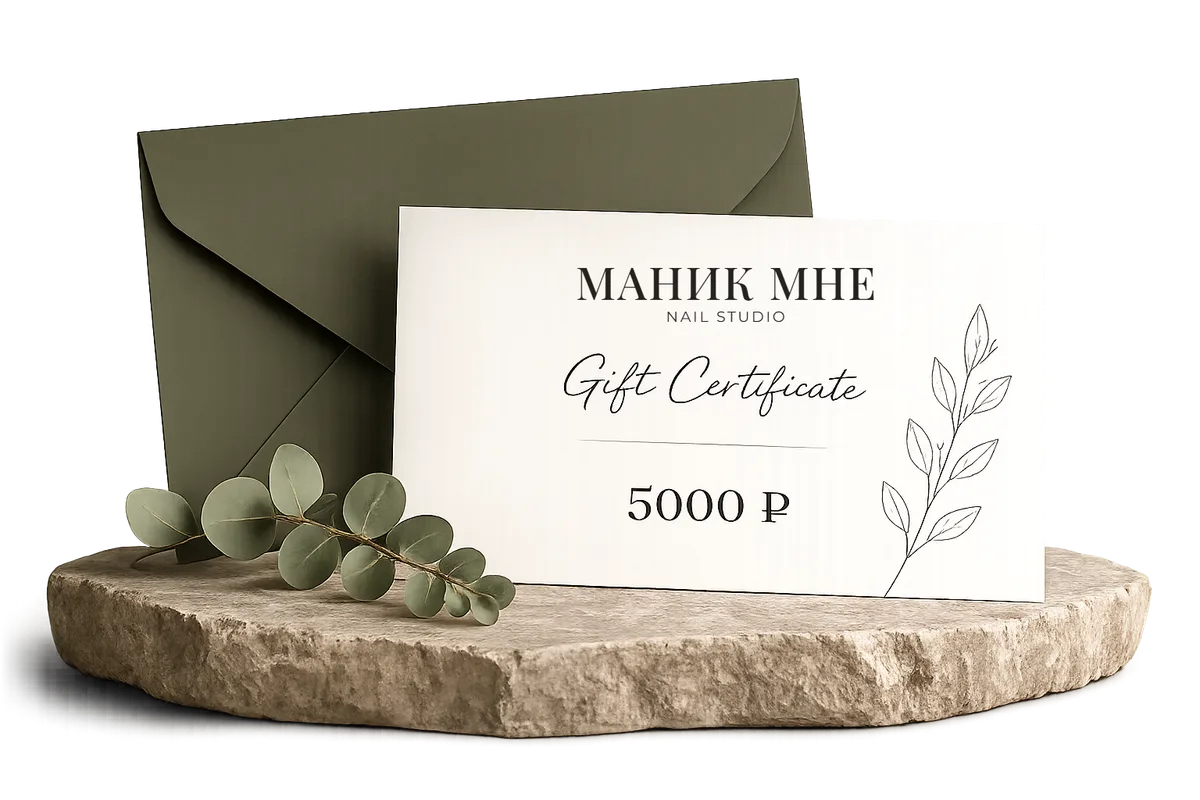
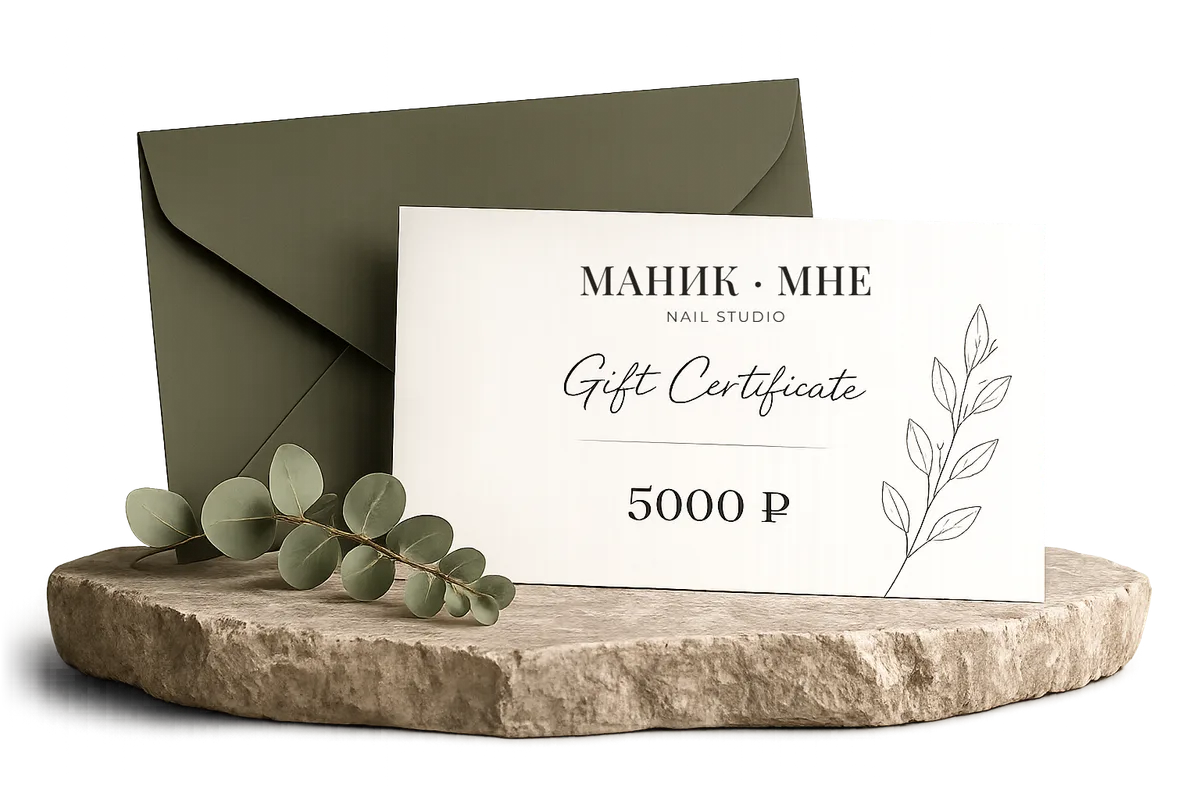
[agent] fix: обновить превью без подологии и с названием Маник · Мне

Changed region(s): [[0.4625, 0.3125, 0.74, 0.375]]

diff --git a/index.html b/index.html
@@ -8,19 +8,19 @@
   <meta name="darkreader-lock">
   <!-- ЧЕРНОВИК: убрать noindex только после замены данных первой студии (README, «Перед публикацией») -->
   <meta name="robots" content="noindex, nofollow">
-  <title>Маник Мне — студия эстетического маникюра и педикюра в Москве</title>
+  <title>Маник · Мне — студия эстетического маникюра и педикюра в Москве</title>
   <meta name="description" content="Эстетичный маникюр и педикюр в Москве, ул. Нижняя Масловка, 5к1. Новым клиентам скидка 20%. Онлайн-запись.">
   <link rel="icon" type="image/png" href="assets/img/favicon.png">
   <link rel="preconnect" href="https://fonts.googleapis.com">
   <link rel="preconnect" href="https://fonts.gstatic.com" crossorigin>
   <link rel="stylesheet" href="https://fonts.googleapis.com/css2?family=Montserrat:wght@400;500;600&family=Playfair+Display:wght@400;500;600&display=swap">
-  <link rel="stylesheet" href="css/style.css?v=163613">
+  <link rel="stylesheet" href="css/style.css?v=fe3592b">
   <noscript><style>.tabs{display:none}.price-panel[hidden]{display:block!important}.panel-title{display:block!important}</style></noscript>
 </head>
 <body>
   <header class="site-header" id="top">
     <div class="wrap header-inner">
-      <a class="logo" href="#top" aria-label="Маник Мне, на главную">
+      <a class="logo" href="#top" aria-label="Маник · Мне, на главную">
         <span class="logo-name">МАНИК<i>·</i>МНЕ</span>
         <span class="logo-sub">студия эстетического маникюра</span>
       </a>
@@ -43,7 +43,7 @@
       </picture>
       <div class="wrap">
         <div class="hero-text">
-          <p class="hero-brand" aria-hidden="true"><span>МАНИК</span><span>МНЕ</span></p>
+          <p class="hero-brand" aria-hidden="true"><span>МАНИК</span><span><i>·</i> МНЕ</span></p>
           <p class="eyebrow">Студия эстетического маникюра · Москва</p>
           <h1 id="hero-title">Маникюр и педикюр с аккуратной обработкой и правильной архитектурой ногтей</h1>
           <ul class="hero-points" aria-label="Коротко о студии">
@@ -68,7 +68,6 @@
 <article class="tile"><div class="tile-media"><img class="tile-img" src="assets/img/tile-manicure.webp" alt="" loading="lazy" decoding="async"><div class="tile-overlay"><h3 class="tile-title">Маникюр</h3><p class="tile-price">от 1 500 ₽</p></div></div><p class="tile-text">Гигиенический, с покрытием гель-лак и «Всё включено»: снятие, покрытие и укрепление гелем.</p><div class="tile-actions"><a class="btn btn-primary btn-sm" href="#price" data-open-tab="manicure">Посмотреть цены</a></div></article>
 <article class="tile"><div class="tile-media"><img class="tile-img" src="assets/img/tile-nails.webp" alt="" loading="lazy" decoding="async"><div class="tile-overlay"><h3 class="tile-title">Наращивание ногтей</h3><p class="tile-price">от 500 ₽</p></div></div><p class="tile-text">На гелевые типсы и на формы, коррекция. Можно нарастить один ноготь.</p><div class="tile-actions"><a class="btn btn-primary btn-sm" href="#price" data-open-tab="nails">Посмотреть цены</a></div></article>
 <article class="tile"><div class="tile-media"><img class="tile-img" src="assets/img/tile-pedicure.webp" alt="" loading="lazy" decoding="async"><div class="tile-overlay"><h3 class="tile-title">Педикюр</h3><p class="tile-price">от 1 000 ₽</p></div></div><p class="tile-text">Пальчики или полный педикюр, с покрытием гель-лак и без, форматы «Умный» и «Фруктовый».</p><div class="tile-actions"><a class="btn btn-primary btn-sm" href="#price" data-open-tab="pedicure">Посмотреть цены</a></div></article>
-<article class="tile"><div class="tile-media"><img class="tile-img" src="assets/img/tile-podology.webp" alt="" loading="lazy" decoding="async"><div class="tile-overlay"><h3 class="tile-title">Подология</h3><p class="tile-price">от 500 ₽</p></div></div><p class="tile-text">Трещины и мозоли, вросший ноготь, коррекционная система (титановая нить).</p><div class="tile-actions"><a class="btn btn-primary btn-sm" href="#price" data-open-tab="podology">Посмотреть цены</a></div></article>
 <article class="tile"><div class="tile-media"><img class="tile-img" src="assets/img/tile-lashes.webp" alt="" loading="lazy" decoding="async"><div class="tile-overlay"><h3 class="tile-title">Ресницы</h3><p class="tile-price">от 300 ₽</p></div></div><p class="tile-text">Классика, 1,5D, 2D, 3D и мокрый эффект, ламинирование и окрашивание, снятие.</p><div class="tile-actions"><a class="btn btn-primary btn-sm" href="#price" data-open-tab="lashes">Посмотреть цены</a></div></article>
 <article class="tile"><div class="tile-media"><img class="tile-img" src="assets/img/tile-brows.webp" alt="" loading="lazy" decoding="async"><div class="tile-overlay"><h3 class="tile-title">Оформление бровей</h3><p class="tile-price">от 700 ₽</p></div></div><p class="tile-text">Ламинирование, окрашивание, коррекция и архитектура бровей.</p><div class="tile-actions"><a class="btn btn-primary btn-sm" href="#price" data-open-tab="brows">Посмотреть цены</a></div></article>
 <!-- tiles:end -->
@@ -89,7 +88,7 @@
     <section class="section" id="reviews" data-block="reviews" hidden>
       <div class="wrap">
         <div class="section-head">
-          <h2>Клиенты о «Маник Мне»</h2>
+          <h2>Клиенты о «Маник · Мне»</h2>
         </div>
         <div data-rating></div>
         <div class="reviews" data-list></div>
@@ -107,7 +106,6 @@
 <button type="button" role="tab" class="tab" id="tab-manicure" aria-controls="panel-manicure" aria-selected="true" tabindex="0">Маникюр</button>
 <button type="button" role="tab" class="tab" id="tab-nails" aria-controls="panel-nails" aria-selected="false" tabindex="-1">Наращивание ногтей</button>
 <button type="button" role="tab" class="tab" id="tab-pedicure" aria-controls="panel-pedicure" aria-selected="false" tabindex="-1">Педикюр</button>
-<button type="button" role="tab" class="tab" id="tab-podology" aria-controls="panel-podology" aria-selected="false" tabindex="-1">Подология</button>
 <button type="button" role="tab" class="tab" id="tab-lashes" aria-controls="panel-lashes" aria-selected="false" tabindex="-1">Наращивание ресниц</button>
 <button type="button" role="tab" class="tab" id="tab-brows" aria-controls="panel-brows" aria-selected="false" tabindex="-1">Уход за бровями</button>
 <button type="button" role="tab" class="tab" id="tab-men" aria-controls="panel-men" aria-selected="false" tabindex="-1">Для мужчин</button>
@@ -120,7 +118,6 @@
 <div role="tabpanel" class="price-panel" id="panel-manicure" aria-labelledby="tab-manicure"><h3 class="panel-title">Маникюр</h3><table class="price-table"><thead><tr><th scope="col">Процедура</th><th scope="col" class="num">Мастер</th><th scope="col" class="act"><span class="sr-only">Запись</span></th></tr></thead><tbody><tr><th scope="row"><span class="p-name">Маникюр без снятия, укрепление гелем или покрытие гель-лак</span></th><td class="num" data-label="Мастер">2 900 ₽</td><td class="act"><a class="btn btn-outline btn-sm" href="https://n2624694.yclients.ru" target="_blank" rel="noopener" data-book data-book-label="Маникюр без снятия, укрепление гелем или покрытие гель-лак">Узнать свободное время</a></td></tr><tr><th scope="row"><span class="p-name">Маникюр &quot;Всё включено&quot; длина 1</span><span class="p-note">Включает: снятие, покрытие гель-лак, укрепление гелем.</span></th><td class="num" data-label="Мастер">3 000 ₽</td><td class="act"><a class="btn btn-outline btn-sm" href="https://n2624694.yclients.ru" target="_blank" rel="noopener" data-book data-book-label="Маникюр &quot;Всё включено&quot; длина 1">Узнать свободное время</a></td></tr><tr><th scope="row"><span class="p-name">Маникюр &quot;Всё включено&quot; длина 2-4</span><span class="p-note">Включает: снятие, покрытие гель-лак, укрепление гелем.</span></th><td class="num" data-label="Мастер">3 500 ₽</td><td class="act"><a class="btn btn-outline btn-sm" href="https://n2624694.yclients.ru" target="_blank" rel="noopener" data-book data-book-label="Маникюр &quot;Всё включено&quot; длина 2-4">Узнать свободное время</a></td></tr><tr><th scope="row"><span class="p-name">Маникюр гигиенический</span><span class="p-note">Без снятия, без покрытия</span></th><td class="num" data-label="Мастер">1 500 ₽</td><td class="act"><a class="btn btn-outline btn-sm" href="https://n2624694.yclients.ru" target="_blank" rel="noopener" data-book data-book-label="Маникюр гигиенический">Узнать свободное время</a></td></tr><tr><th scope="row"><span class="p-name">Бондирование</span></th><td class="num" data-label="Мастер">2 500 ₽</td><td class="act"><a class="btn btn-outline btn-sm" href="https://n2624694.yclients.ru" target="_blank" rel="noopener" data-book data-book-label="Бондирование">Узнать свободное время</a></td></tr></tbody></table></div>
 <div role="tabpanel" class="price-panel" id="panel-nails" aria-labelledby="tab-nails" hidden><h3 class="panel-title">Наращивание ногтей</h3><table class="price-table"><thead><tr><th scope="col">Процедура</th><th scope="col" class="num">Мастер</th><th scope="col" class="act"><span class="sr-only">Запись</span></th></tr></thead><tbody><tr><th scope="row"><span class="p-name">Наращивание длина 1-2 на гелевые типсы</span></th><td class="num" data-label="Мастер">3 500 ₽</td><td class="act"><a class="btn btn-outline btn-sm" href="https://n2624694.yclients.ru" target="_blank" rel="noopener" data-book data-book-label="Наращивание длина 1-2 на гелевые типсы">Узнать свободное время</a></td></tr><tr><th scope="row"><span class="p-name">Наращивание длина 3-5 на гелевые типсы</span></th><td class="num" data-label="Мастер">4 000 ₽</td><td class="act"><a class="btn btn-outline btn-sm" href="https://n2624694.yclients.ru" target="_blank" rel="noopener" data-book data-book-label="Наращивание длина 3-5 на гелевые типсы">Узнать свободное время</a></td></tr><tr><th scope="row"><span class="p-name">Наращивание на верхние формы</span></th><td class="num" data-label="Мастер">4 500 ₽</td><td class="act"><a class="btn btn-outline btn-sm" href="https://n2624694.yclients.ru" target="_blank" rel="noopener" data-book data-book-label="Наращивание на верхние формы">Узнать свободное время</a></td></tr><tr><th scope="row"><span class="p-name">Наращивание на нижние формы</span></th><td class="num" data-label="Мастер">4 500 ₽</td><td class="act"><a class="btn btn-outline btn-sm" href="https://n2624694.yclients.ru" target="_blank" rel="noopener" data-book data-book-label="Наращивание на нижние формы">Узнать свободное время</a></td></tr><tr><th scope="row"><span class="p-name">Коррекция ногтей на гелевые типсы длина 1-2</span></th><td class="num" data-label="Мастер">4 000 ₽</td><td class="act"><a class="btn btn-outline btn-sm" href="https://n2624694.yclients.ru" target="_blank" rel="noopener" data-book data-book-label="Коррекция ногтей на гелевые типсы длина 1-2">Узнать свободное время</a></td></tr><tr><th scope="row"><span class="p-name">Коррекция ногтей на гелевые типсы длина 3-4</span></th><td class="num" data-label="Мастер">4 500 ₽</td><td class="act"><a class="btn btn-outline btn-sm" href="https://n2624694.yclients.ru" target="_blank" rel="noopener" data-book data-book-label="Коррекция ногтей на гелевые типсы длина 3-4">Узнать свободное время</a></td></tr><tr><th scope="row"><span class="p-name">Коррекция ногтей на верхние формы длина 3-5</span></th><td class="num" data-label="Мастер">5 000 ₽</td><td class="act"><a class="btn btn-outline btn-sm" href="https://n2624694.yclients.ru" target="_blank" rel="noopener" data-book data-book-label="Коррекция ногтей на верхние формы длина 3-5">Узнать свободное время</a></td></tr><tr><th scope="row"><span class="p-name">Коррекция ногтей на нижние формы длина 3-5</span></th><td class="num" data-label="Мастер">5 000 ₽</td><td class="act"><a class="btn btn-outline btn-sm" href="https://n2624694.yclients.ru" target="_blank" rel="noopener" data-book data-book-label="Коррекция ногтей на нижние формы длина 3-5">Узнать свободное время</a></td></tr><tr><th scope="row"><span class="p-name">Наращивание 1-го ногтя</span></th><td class="num" data-label="Мастер">500 ₽</td><td class="act"><a class="btn btn-outline btn-sm" href="https://n2624694.yclients.ru" target="_blank" rel="noopener" data-book data-book-label="Наращивание 1-го ногтя">Узнать свободное время</a></td></tr></tbody></table></div>
 <div role="tabpanel" class="price-panel" id="panel-pedicure" aria-labelledby="tab-pedicure" hidden><h3 class="panel-title">Педикюр</h3><table class="price-table"><thead><tr><th scope="col">Процедура</th><th scope="col" class="num">Мастер</th><th scope="col" class="act"><span class="sr-only">Запись</span></th></tr></thead><tbody><tr><th scope="row"><span class="p-name">Педикюр пальчики без снятия, без покрытия</span></th><td class="num" data-label="Мастер">2 000 ₽</td><td class="act"><a class="btn btn-outline btn-sm" href="https://n2624694.yclients.ru" target="_blank" rel="noopener" data-book data-book-label="Педикюр пальчики без снятия, без покрытия">Узнать свободное время</a></td></tr><tr><th scope="row"><span class="p-name">Педикюр пальчики без снятия, покрытие гель-лак</span></th><td class="num" data-label="Мастер">2 500 ₽</td><td class="act"><a class="btn btn-outline btn-sm" href="https://n2624694.yclients.ru" target="_blank" rel="noopener" data-book data-book-label="Педикюр пальчики без снятия, покрытие гель-лак">Узнать свободное время</a></td></tr><tr><th scope="row"><span class="p-name">Педикюр пальчики снятие, покрытие гель-лак</span></th><td class="num" data-label="Мастер">2 700 ₽</td><td class="act"><a class="btn btn-outline btn-sm" href="https://n2624694.yclients.ru" target="_blank" rel="noopener" data-book data-book-label="Педикюр пальчики снятие, покрытие гель-лак">Узнать свободное время</a></td></tr><tr><th scope="row"><span class="p-name">Педикюр Умный со снятием, без покрытия</span></th><td class="num" data-label="Мастер">2 800 ₽</td><td class="act"><a class="btn btn-outline btn-sm" href="https://n2624694.yclients.ru" target="_blank" rel="noopener" data-book data-book-label="Педикюр Умный со снятием, без покрытия">Узнать свободное время</a></td></tr><tr><th scope="row"><span class="p-name">Педикюр без снятия, без покрытия</span></th><td class="num" data-label="Мастер">2 500 ₽</td><td class="act"><a class="btn btn-outline btn-sm" href="https://n2624694.yclients.ru" target="_blank" rel="noopener" data-book data-book-label="Педикюр без снятия, без покрытия">Узнать свободное время</a></td></tr><tr><th scope="row"><span class="p-name">Педикюр Умный без снятия, покрытие гель-лак</span></th><td class="num" data-label="Мастер">2 900 ₽</td><td class="act"><a class="btn btn-outline btn-sm" href="https://n2624694.yclients.ru" target="_blank" rel="noopener" data-book data-book-label="Педикюр Умный без снятия, покрытие гель-лак">Узнать свободное время</a></td></tr><tr><th scope="row"><span class="p-name">Педикюр Умный &quot;Всё включено&quot; снятие, покрытие гель-лак</span></th><td class="num" data-label="Мастер">3 000 ₽</td><td class="act"><a class="btn btn-outline btn-sm" href="https://n2624694.yclients.ru" target="_blank" rel="noopener" data-book data-book-label="Педикюр Умный &quot;Всё включено&quot; снятие, покрытие гель-лак">Узнать свободное время</a></td></tr><tr><th scope="row"><span class="p-name">Педикюр Фруктовый без покрытия</span></th><td class="num" data-label="Мастер">3 500 ₽</td><td class="act"><a class="btn btn-outline btn-sm" href="https://n2624694.yclients.ru" target="_blank" rel="noopener" data-book data-book-label="Педикюр Фруктовый без покрытия">Узнать свободное время</a></td></tr><tr><th scope="row"><span class="p-name">Педикюр Фруктовый с покрытием</span></th><td class="num" data-label="Мастер">4 000 ₽</td><td class="act"><a class="btn btn-outline btn-sm" href="https://n2624694.yclients.ru" target="_blank" rel="noopener" data-book data-book-label="Педикюр Фруктовый с покрытием">Узнать свободное время</a></td></tr><tr><th scope="row"><span class="p-name">Сложная стопа</span></th><td class="num" data-label="Мастер">1 000 ₽</td><td class="act"><a class="btn btn-outline btn-sm" href="https://n2624694.yclients.ru" target="_blank" rel="noopener" data-book data-book-label="Сложная стопа">Узнать свободное время</a></td></tr></tbody></table></div>
-<div role="tabpanel" class="price-panel" id="panel-podology" aria-labelledby="tab-podology" hidden><h3 class="panel-title">Подология</h3><table class="price-table"><thead><tr><th scope="col">Процедура</th><th scope="col" class="num">Мастер</th><th scope="col" class="act"><span class="sr-only">Запись</span></th></tr></thead><tbody><tr><th scope="row"><span class="p-name">Обработка пальцев/тампонада/трещины/мозоли</span></th><td class="num" data-label="Мастер">3 000 ₽</td><td class="act"><a class="btn btn-outline btn-sm" href="https://n2624694.yclients.ru" target="_blank" rel="noopener" data-book data-book-label="Обработка пальцев/тампонада/трещины/мозоли">Узнать свободное время</a></td></tr><tr><th scope="row"><span class="p-name">Зачистка 1 ноготь (онихолизис) - пустота в ногте</span></th><td class="num" data-label="Мастер">500 ₽</td><td class="act"><a class="btn btn-outline btn-sm" href="https://n2624694.yclients.ru" target="_blank" rel="noopener" data-book data-book-label="Зачистка 1 ноготь (онихолизис) - пустота в ногте">Узнать свободное время</a></td></tr><tr><th scope="row"><span class="p-name">Зачистка 1 ноготь (грибок) онихомикоз</span></th><td class="num" data-label="Мастер">1 000 ₽</td><td class="act"><a class="btn btn-outline btn-sm" href="https://n2624694.yclients.ru" target="_blank" rel="noopener" data-book data-book-label="Зачистка 1 ноготь (грибок) онихомикоз">Узнать свободное время</a></td></tr><tr><th scope="row"><span class="p-name">Коррекционная система (титановая нить) 1 палец</span></th><td class="num" data-label="Мастер">2 900 ₽</td><td class="act"><a class="btn btn-outline btn-sm" href="https://n2624694.yclients.ru" target="_blank" rel="noopener" data-book data-book-label="Коррекционная система (титановая нить) 1 палец">Узнать свободное время</a></td></tr><tr><th scope="row"><span class="p-name">Удаление вросшего ногтя (онихокриптоз)</span></th><td class="num" data-label="Мастер">1 200 ₽</td><td class="act"><a class="btn btn-outline btn-sm" href="https://n2624694.yclients.ru" target="_blank" rel="noopener" data-book data-book-label="Удаление вросшего ногтя (онихокриптоз)">Узнать свободное время</a></td></tr></tbody></table></div>
 <div role="tabpanel" class="price-panel" id="panel-lashes" aria-labelledby="tab-lashes" hidden><h3 class="panel-title">Наращивание ресниц</h3><table class="price-table"><thead><tr><th scope="col">Процедура</th><th scope="col" class="num">Мастер</th><th scope="col" class="act"><span class="sr-only">Запись</span></th></tr></thead><tbody><tr><th scope="row"><span class="p-name">Мокрый эффект 3D объём + снятие</span><span class="p-note p-hint">Ресницы собраны в отдельные острые пучки, как будто влажные. Взгляд выразительнее.</span></th><td class="num" data-label="Мастер">3 900 ₽</td><td class="act"><a class="btn btn-outline btn-sm" href="https://n2624694.yclients.ru" target="_blank" rel="noopener" data-book data-book-label="Мокрый эффект 3D объём + снятие">Узнать свободное время</a></td></tr><tr><th scope="row"><span class="p-name">Мокрый эффект 2D объём + снятие</span><span class="p-note p-hint">Ресницы собраны в отдельные острые пучки, как будто влажные. Взгляд выразительнее.</span></th><td class="num" data-label="Мастер">3 700 ₽</td><td class="act"><a class="btn btn-outline btn-sm" href="https://n2624694.yclients.ru" target="_blank" rel="noopener" data-book data-book-label="Мокрый эффект 2D объём + снятие">Узнать свободное время</a></td></tr><tr><th scope="row"><span class="p-name">Ресницы 3D объём + снятие</span><span class="p-note p-hint">Пучок из трёх тонких ресниц на каждую свою. Самый плотный объём из этих вариантов.</span></th><td class="num" data-label="Мастер">3 500 ₽</td><td class="act"><a class="btn btn-outline btn-sm" href="https://n2624694.yclients.ru" target="_blank" rel="noopener" data-book data-book-label="Ресницы 3D объём + снятие">Узнать свободное время</a></td></tr><tr><th scope="row"><span class="p-name">Ресницы 2D объём + снятие</span><span class="p-note p-hint">Пучок из двух тонких ресниц на каждую свою. Гуще классики.</span></th><td class="num" data-label="Мастер">3 200 ₽</td><td class="act"><a class="btn btn-outline btn-sm" href="https://n2624694.yclients.ru" target="_blank" rel="noopener" data-book data-book-label="Ресницы 2D объём + снятие">Узнать свободное время</a></td></tr><tr><th scope="row"><span class="p-name">Ресницы 1,5D + снятие</span><span class="p-note p-hint">Между классикой и 2D: на часть ресниц ставится пучок из двух.</span></th><td class="num" data-label="Мастер">3 000 ₽</td><td class="act"><a class="btn btn-outline btn-sm" href="https://n2624694.yclients.ru" target="_blank" rel="noopener" data-book data-book-label="Ресницы 1,5D + снятие">Узнать свободное время</a></td></tr><tr><th scope="row"><span class="p-name">Классические ресницы + снятие</span><span class="p-note p-hint">Одна нарощенная ресница на одну свою. Самый естественный вид.</span></th><td class="num" data-label="Мастер">2 800 ₽</td><td class="act"><a class="btn btn-outline btn-sm" href="https://n2624694.yclients.ru" target="_blank" rel="noopener" data-book data-book-label="Классические ресницы + снятие">Узнать свободное время</a></td></tr><tr><th scope="row"><span class="p-name">Окрашивание ресниц</span></th><td class="num" data-label="Мастер">800 ₽</td><td class="act"><a class="btn btn-outline btn-sm" href="https://n2624694.yclients.ru" target="_blank" rel="noopener" data-book data-book-label="Окрашивание ресниц">Узнать свободное время</a></td></tr><tr><th scope="row"><span class="p-name">Ламинирование ресниц</span></th><td class="num" data-label="Мастер">2 200 ₽</td><td class="act"><a class="btn btn-outline btn-sm" href="https://n2624694.yclients.ru" target="_blank" rel="noopener" data-book data-book-label="Ламинирование ресниц">Узнать свободное время</a></td></tr><tr><th scope="row"><span class="p-name">Ламинирование ресниц + окрашивание</span></th><td class="num" data-label="Мастер">3 000 ₽</td><td class="act"><a class="btn btn-outline btn-sm" href="https://n2624694.yclients.ru" target="_blank" rel="noopener" data-book data-book-label="Ламинирование ресниц + окрашивание">Узнать свободное время</a></td></tr><tr><th scope="row"><span class="p-name">Коррекция 2D/3D ресницы</span></th><td class="num" data-label="Мастер">2 200 ₽</td><td class="act"><a class="btn btn-outline btn-sm" href="https://n2624694.yclients.ru" target="_blank" rel="noopener" data-book data-book-label="Коррекция 2D/3D ресницы">Узнать свободное время</a></td></tr><tr><th scope="row"><span class="p-name">Коррекция классические ресницы</span></th><td class="num" data-label="Мастер">1 800 ₽</td><td class="act"><a class="btn btn-outline btn-sm" href="https://n2624694.yclients.ru" target="_blank" rel="noopener" data-book data-book-label="Коррекция классические ресницы">Узнать свободное время</a></td></tr><tr><th scope="row"><span class="p-name">Добавление цветных ресниц/коричневых</span></th><td class="num" data-label="Мастер">300 ₽</td><td class="act"><a class="btn btn-outline btn-sm" href="https://n2624694.yclients.ru" target="_blank" rel="noopener" data-book data-book-label="Добавление цветных ресниц/коричневых">Узнать свободное время</a></td></tr><tr><th scope="row"><span class="p-name">Вставка</span></th><td class="num" data-label="Мастер">700 ₽</td><td class="act"><a class="btn btn-outline btn-sm" href="https://n2624694.yclients.ru" target="_blank" rel="noopener" data-book data-book-label="Вставка">Узнать свободное время</a></td></tr><tr><th scope="row"><span class="p-name">Лучики</span><span class="p-note p-hint">Добавка к наращиванию: отдельные удлинённые ресницы-лучики для акцента.</span></th><td class="num" data-label="Мастер">500 ₽</td><td class="act"><a class="btn btn-outline btn-sm" href="https://n2624694.yclients.ru" target="_blank" rel="noopener" data-book data-book-label="Лучики">Узнать свободное время</a></td></tr><tr><th scope="row"><span class="p-name">Снятие ресниц</span></th><td class="num" data-label="Мастер">500 ₽</td><td class="act"><a class="btn btn-outline btn-sm" href="https://n2624694.yclients.ru" target="_blank" rel="noopener" data-book data-book-label="Снятие ресниц">Узнать свободное время</a></td></tr><tr><th scope="row"><span class="p-name">Мокрый эффект 3D объём</span><span class="p-note p-hint">Ресницы собраны в отдельные острые пучки, как будто влажные. Взгляд выразительнее.</span></th><td class="num" data-label="Мастер">3 900 ₽</td><td class="act"><a class="btn btn-outline btn-sm" href="https://n2624694.yclients.ru" target="_blank" rel="noopener" data-book data-book-label="Мокрый эффект 3D объём">Узнать свободное время</a></td></tr><tr><th scope="row"><span class="p-name">Мокрый эффект 2D объём</span><span class="p-note p-hint">Ресницы собраны в отдельные острые пучки, как будто влажные. Взгляд выразительнее.</span></th><td class="num" data-label="Мастер">3 700 ₽</td><td class="act"><a class="btn btn-outline btn-sm" href="https://n2624694.yclients.ru" target="_blank" rel="noopener" data-book data-book-label="Мокрый эффект 2D объём">Узнать свободное время</a></td></tr><tr><th scope="row"><span class="p-name">Ресницы 3D объём</span><span class="p-note p-hint">Пучок из трёх тонких ресниц на каждую свою. Самый плотный объём из этих вариантов.</span></th><td class="num" data-label="Мастер">3 500 ₽</td><td class="act"><a class="btn btn-outline btn-sm" href="https://n2624694.yclients.ru" target="_blank" rel="noopener" data-book data-book-label="Ресницы 3D объём">Узнать свободное время</a></td></tr><tr><th scope="row"><span class="p-name">Ресницы 2D объём</span><span class="p-note p-hint">Пучок из двух тонких ресниц на каждую свою. Гуще классики.</span></th><td class="num" data-label="Мастер">3 200 ₽</td><td class="act"><a class="btn btn-outline btn-sm" href="https://n2624694.yclients.ru" target="_blank" rel="noopener" data-book data-book-label="Ресницы 2D объём">Узнать свободное время</a></td></tr><tr><th scope="row"><span class="p-name">Ресницы 1,5D объём</span><span class="p-note p-hint">Между классикой и 2D: на часть ресниц ставится пучок из двух.</span></th><td class="num" data-label="Мастер">3 000 ₽</td><td class="act"><a class="btn btn-outline btn-sm" href="https://n2624694.yclients.ru" target="_blank" rel="noopener" data-book data-book-label="Ресницы 1,5D объём">Узнать свободное время</a></td></tr><tr><th scope="row"><span class="p-name">Классические ресницы</span><span class="p-note p-hint">Одна нарощенная ресница на одну свою. Самый естественный вид.</span></th><td class="num" data-label="Мастер">2 800 ₽</td><td class="act"><a class="btn btn-outline btn-sm" href="https://n2624694.yclients.ru" target="_blank" rel="noopener" data-book data-book-label="Классические ресницы">Узнать свободное время</a></td></tr><tr><th scope="row"><span class="p-name">Уголки</span></th><td class="num" data-label="Мастер">2 000 ₽</td><td class="act"><a class="btn btn-outline btn-sm" href="https://n2624694.yclients.ru" target="_blank" rel="noopener" data-book data-book-label="Уголки">Узнать свободное время</a></td></tr></tbody></table></div>
 <div role="tabpanel" class="price-panel" id="panel-brows" aria-labelledby="tab-brows" hidden><h3 class="panel-title">Уход за бровями</h3><table class="price-table"><thead><tr><th scope="col">Процедура</th><th scope="col" class="num">Мастер</th><th scope="col" class="act"><span class="sr-only">Запись</span></th></tr></thead><tbody><tr><th scope="row"><span class="p-name">Ламинирование бровей</span></th><td class="num" data-label="Мастер">2 200 ₽</td><td class="act"><a class="btn btn-outline btn-sm" href="https://n2624694.yclients.ru" target="_blank" rel="noopener" data-book data-book-label="Ламинирование бровей">Узнать свободное время</a></td></tr><tr><th scope="row"><span class="p-name">Окрашивание бровей</span></th><td class="num" data-label="Мастер">800 ₽</td><td class="act"><a class="btn btn-outline btn-sm" href="https://n2624694.yclients.ru" target="_blank" rel="noopener" data-book data-book-label="Окрашивание бровей">Узнать свободное время</a></td></tr><tr><th scope="row"><span class="p-name">Коррекция бровей</span></th><td class="num" data-label="Мастер">700 ₽</td><td class="act"><a class="btn btn-outline btn-sm" href="https://n2624694.yclients.ru" target="_blank" rel="noopener" data-book data-book-label="Коррекция бровей">Узнать свободное время</a></td></tr><tr><th scope="row"><span class="p-name">Архитектура бровей</span></th><td class="num" data-label="Мастер">1 500 ₽</td><td class="act"><a class="btn btn-outline btn-sm" href="https://n2624694.yclients.ru" target="_blank" rel="noopener" data-book data-book-label="Архитектура бровей">Узнать свободное время</a></td></tr></tbody></table></div>
 <div role="tabpanel" class="price-panel" id="panel-men" aria-labelledby="tab-men" hidden><h3 class="panel-title">Для мужчин</h3><table class="price-table"><thead><tr><th scope="col">Процедура</th><th scope="col" class="num">Мастер</th><th scope="col" class="act"><span class="sr-only">Запись</span></th></tr></thead><tbody><tr><th scope="row"><span class="p-name">Мужской педикюр</span></th><td class="num" data-label="Мастер">3 000 ₽</td><td class="act"><a class="btn btn-outline btn-sm" href="https://n2624694.yclients.ru" target="_blank" rel="noopener" data-book data-book-label="Мужской педикюр">Узнать свободное время</a></td></tr><tr><th scope="row"><span class="p-name">Вросший ноготь</span></th><td class="num" data-label="Мастер">800 ₽</td><td class="act"><a class="btn btn-outline btn-sm" href="https://n2624694.yclients.ru" target="_blank" rel="noopener" data-book data-book-label="Вросший ноготь">Узнать свободное время</a></td></tr><tr><th scope="row"><span class="p-name">Мужской маникюр</span></th><td class="num" data-label="Мастер">1 700 ₽</td><td class="act"><a class="btn btn-outline btn-sm" href="https://n2624694.yclients.ru" target="_blank" rel="noopener" data-book data-book-label="Мужской маникюр">Узнать свободное время</a></td></tr></tbody></table></div>
@@ -185,7 +182,7 @@
           </ol>
         </div>
         <div class="cert-img">
-          <img src="assets/img/certificate.webp" alt="Подарочный сертификат студии «Маник Мне» на карточке в оливковом конверте" width="1200" height="800" loading="lazy" decoding="async">
+          <img src="assets/img/certificate.webp?v=fe3592b" alt="Подарочный сертификат студии «Маник · Мне» на карточке в оливковом конверте" width="1200" height="800" loading="lazy" decoding="async">
         </div>
       </div>
     </section>
@@ -256,7 +253,7 @@
 
   <footer class="site-footer">
     <div class="wrap footer-inner">
-      <span>© 2026 MANIK MNE</span>
+      <span>© 2026 MANIK · MNE</span>
       <span class="footer-links">
         <a href="https://mnemanik.ru/policy" target="_blank" rel="noopener">Политика обработки персональных данных</a>
         <a href="https://mnemanik.ru/oferta" target="_blank" rel="noopener">Договор публичной оферты</a>
@@ -267,9 +264,9 @@
     <a class="btn btn-primary" href="https://n2624694.yclients.ru" target="_blank" rel="noopener" data-book>Записаться</a>
     <a class="btn btn-outline" href="tel:+79939051025">Позвонить</a>
   </div>
-  <script defer src="data/content.js?v=163613"></script>
-  <script defer src="js/lib.js?v=163613"></script>
-  <script defer src="js/booking.js?v=163613"></script>
-  <script defer src="js/page.js?v=163613"></script>
+  <script defer src="data/content.js?v=fe3592b"></script>
+  <script defer src="js/lib.js?v=fe3592b"></script>
+  <script defer src="js/booking.js?v=fe3592b"></script>
+  <script defer src="js/page.js?v=fe3592b"></script>
 </body>
 </html>

diff --git a/css/style.css b/css/style.css
@@ -1,4 +1,4 @@
-/* Маник Мне. Токены вверху, секции ниже в порядке страницы. Гамма та же, что у сайта первой студии: графит, кремовый текст, песочные кнопки, олив в акцентных полосах. */
+/* Маник · Мне. Токены вверху, секции ниже в порядке страницы. Гамма та же, что у сайта первой студии: графит, кремовый текст, песочные кнопки, олив в акцентных полосах. */
 :root {
   color-scheme: dark;         /* страница уже тёмная: принудительная тёмная тема браузера её не трогает */
   --bg: #1C1C1E;              /* основной фон: графит */
@@ -121,6 +121,7 @@ h2 { font-size: clamp(1.7rem, 3.4vw, 2.5rem); }
 /* название ограничено и по высоте окна, иначе «−20%» и кнопка уходят вниз на ноутбуках; строка с vh запасная для браузеров без svh */
 .hero-brand { font-size: clamp(3.4rem, min(9.5vw, 13vh), 8.5rem); font-size: clamp(3.4rem, min(9.5vw, 13svh), 8.5rem); }
 .hero-brand span { display: block; }
+.hero-brand i { font-style: normal; color: var(--gold); }
 .hero-brand span + span { padding-left: 1.05em; }
 .hero-text { max-width: 46rem; }
 /* компьютер: текст уже и фото сдвинуто вправо, чтобы подзаголовок и преимущества не заходили на девушку (на мобильном фото сверху, там свои правила) */
@@ -300,7 +301,7 @@ h2 { font-size: clamp(1.7rem, 3.4vw, 2.5rem); }
 .cert-steps { margin: 0 0 14px; padding-left: 1.4em; display: grid; gap: 6px; }
 .cert-steps li::marker { font-weight: 700; }
 .cert-alt { font-size: 16px; margin: 6px 0 0; color: var(--ink-2); }
-/* картинка сертификата: тот же макет, что у первой студии (конверт, карточка, эвкалипт на камне), название на карточке «МАНИК МНЕ»; собирает tools/make-certificate.js */
+/* картинка сертификата: тот же макет, что у первой студии (конверт, карточка, эвкалипт на камне), название на карточке «МАНИК · МНЕ»; собирает tools/make-certificate.js */
 .cert-img img { width: 100%; height: auto; }
 
 /* блок сертификата: тёмно-коричневый фон, как на основном сайте (mnemanik.ru), текст и кнопки в цветах тёмной темы */

diff --git a/data/content.js b/data/content.js
@@ -25,12 +25,6 @@ Object.assign(window.MNE_DATA, {
       text: 'Пальчики или полный педикюр, с покрытием гель-лак и без, форматы «Умный» и «Фруктовый».'
     },
     {
-      cat: 'podology',
-      title: 'Подология',
-      img: 'assets/img/tile-podology.webp',
-      text: 'Трещины и мозоли, вросший ноготь, коррекционная система (титановая нить).'
-    },
-    {
       cat: 'lashes',
       title: 'Ресницы',
       img: 'assets/img/tile-lashes.webp',

diff --git a/README.md b/README.md
@@ -1,3 +1,3 @@
-# Маник Мне — черновик сайта для просмотра
+# Маник · Мне — черновик сайта для просмотра
 
 Это временная копия для просмотра. Адрес (ул. Нижняя Масловка, д. 5к1), телефон (+7 993 905 10 25) и онлайн-запись (https://n2624694.yclients.ru) уже данные второй студии. Цены, фото, режим работы, мессенджеры, политика и оферта пока взяты с сайта первой студии «Мне Маник» и будут заменены. Кнопки записи не оформляйте.
